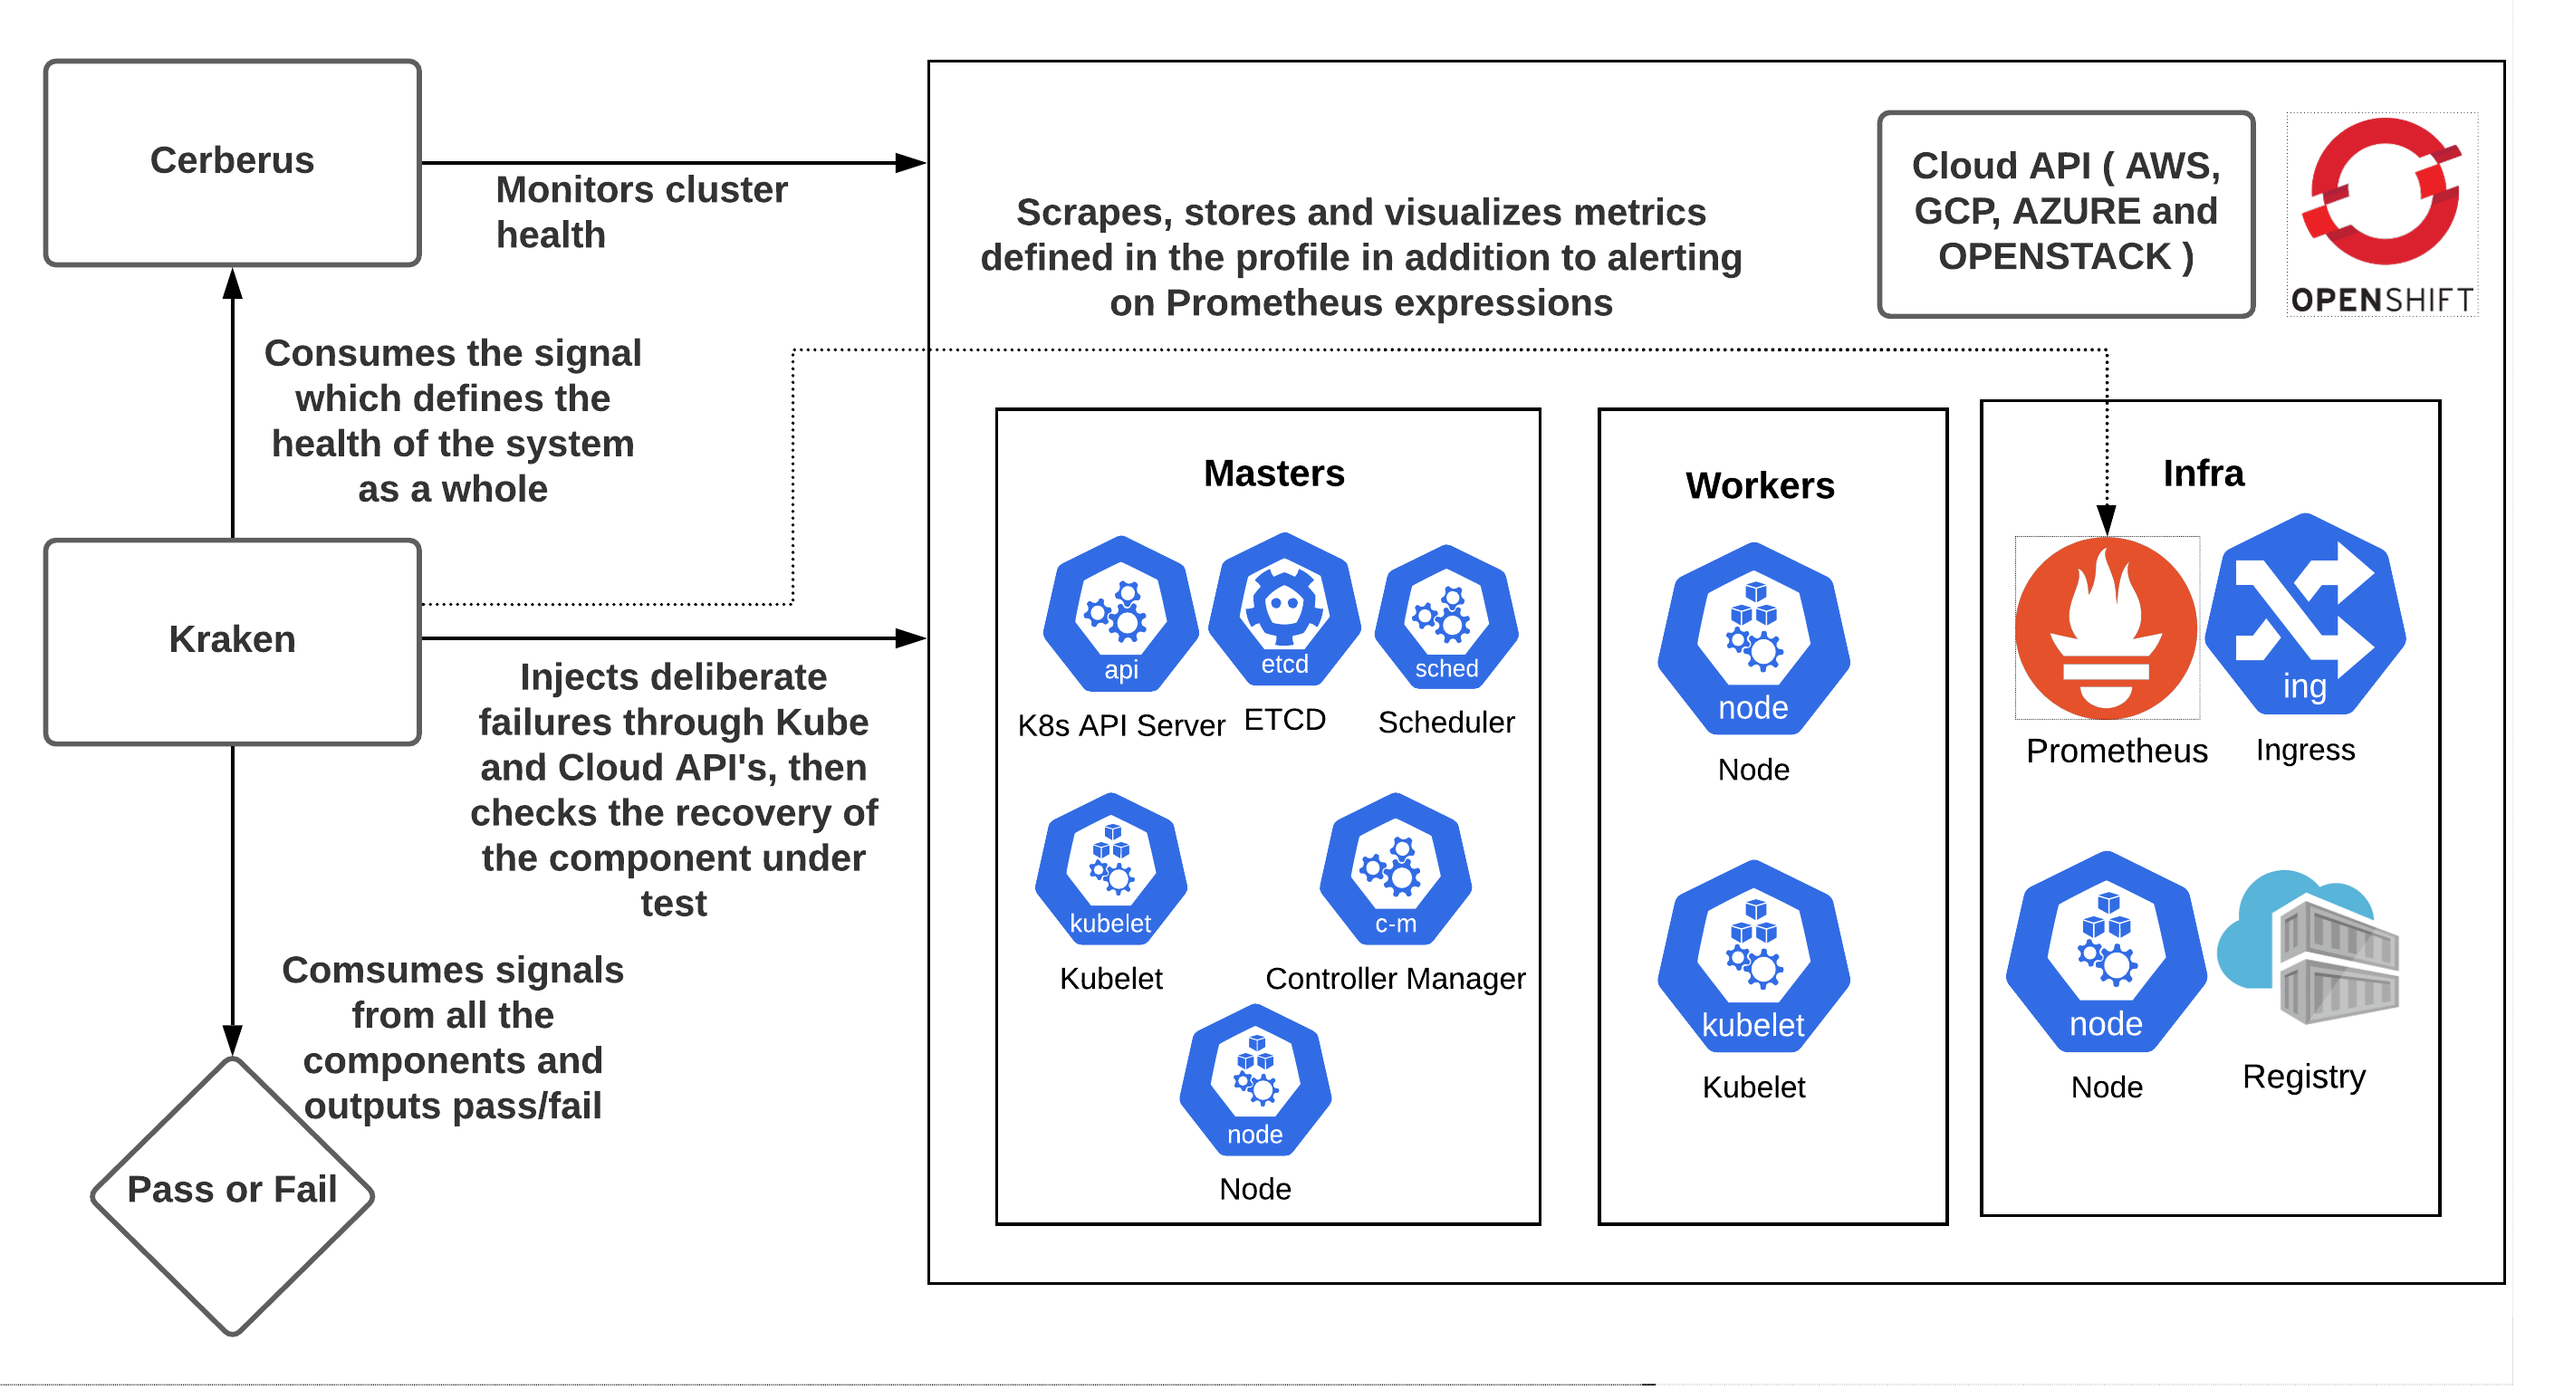
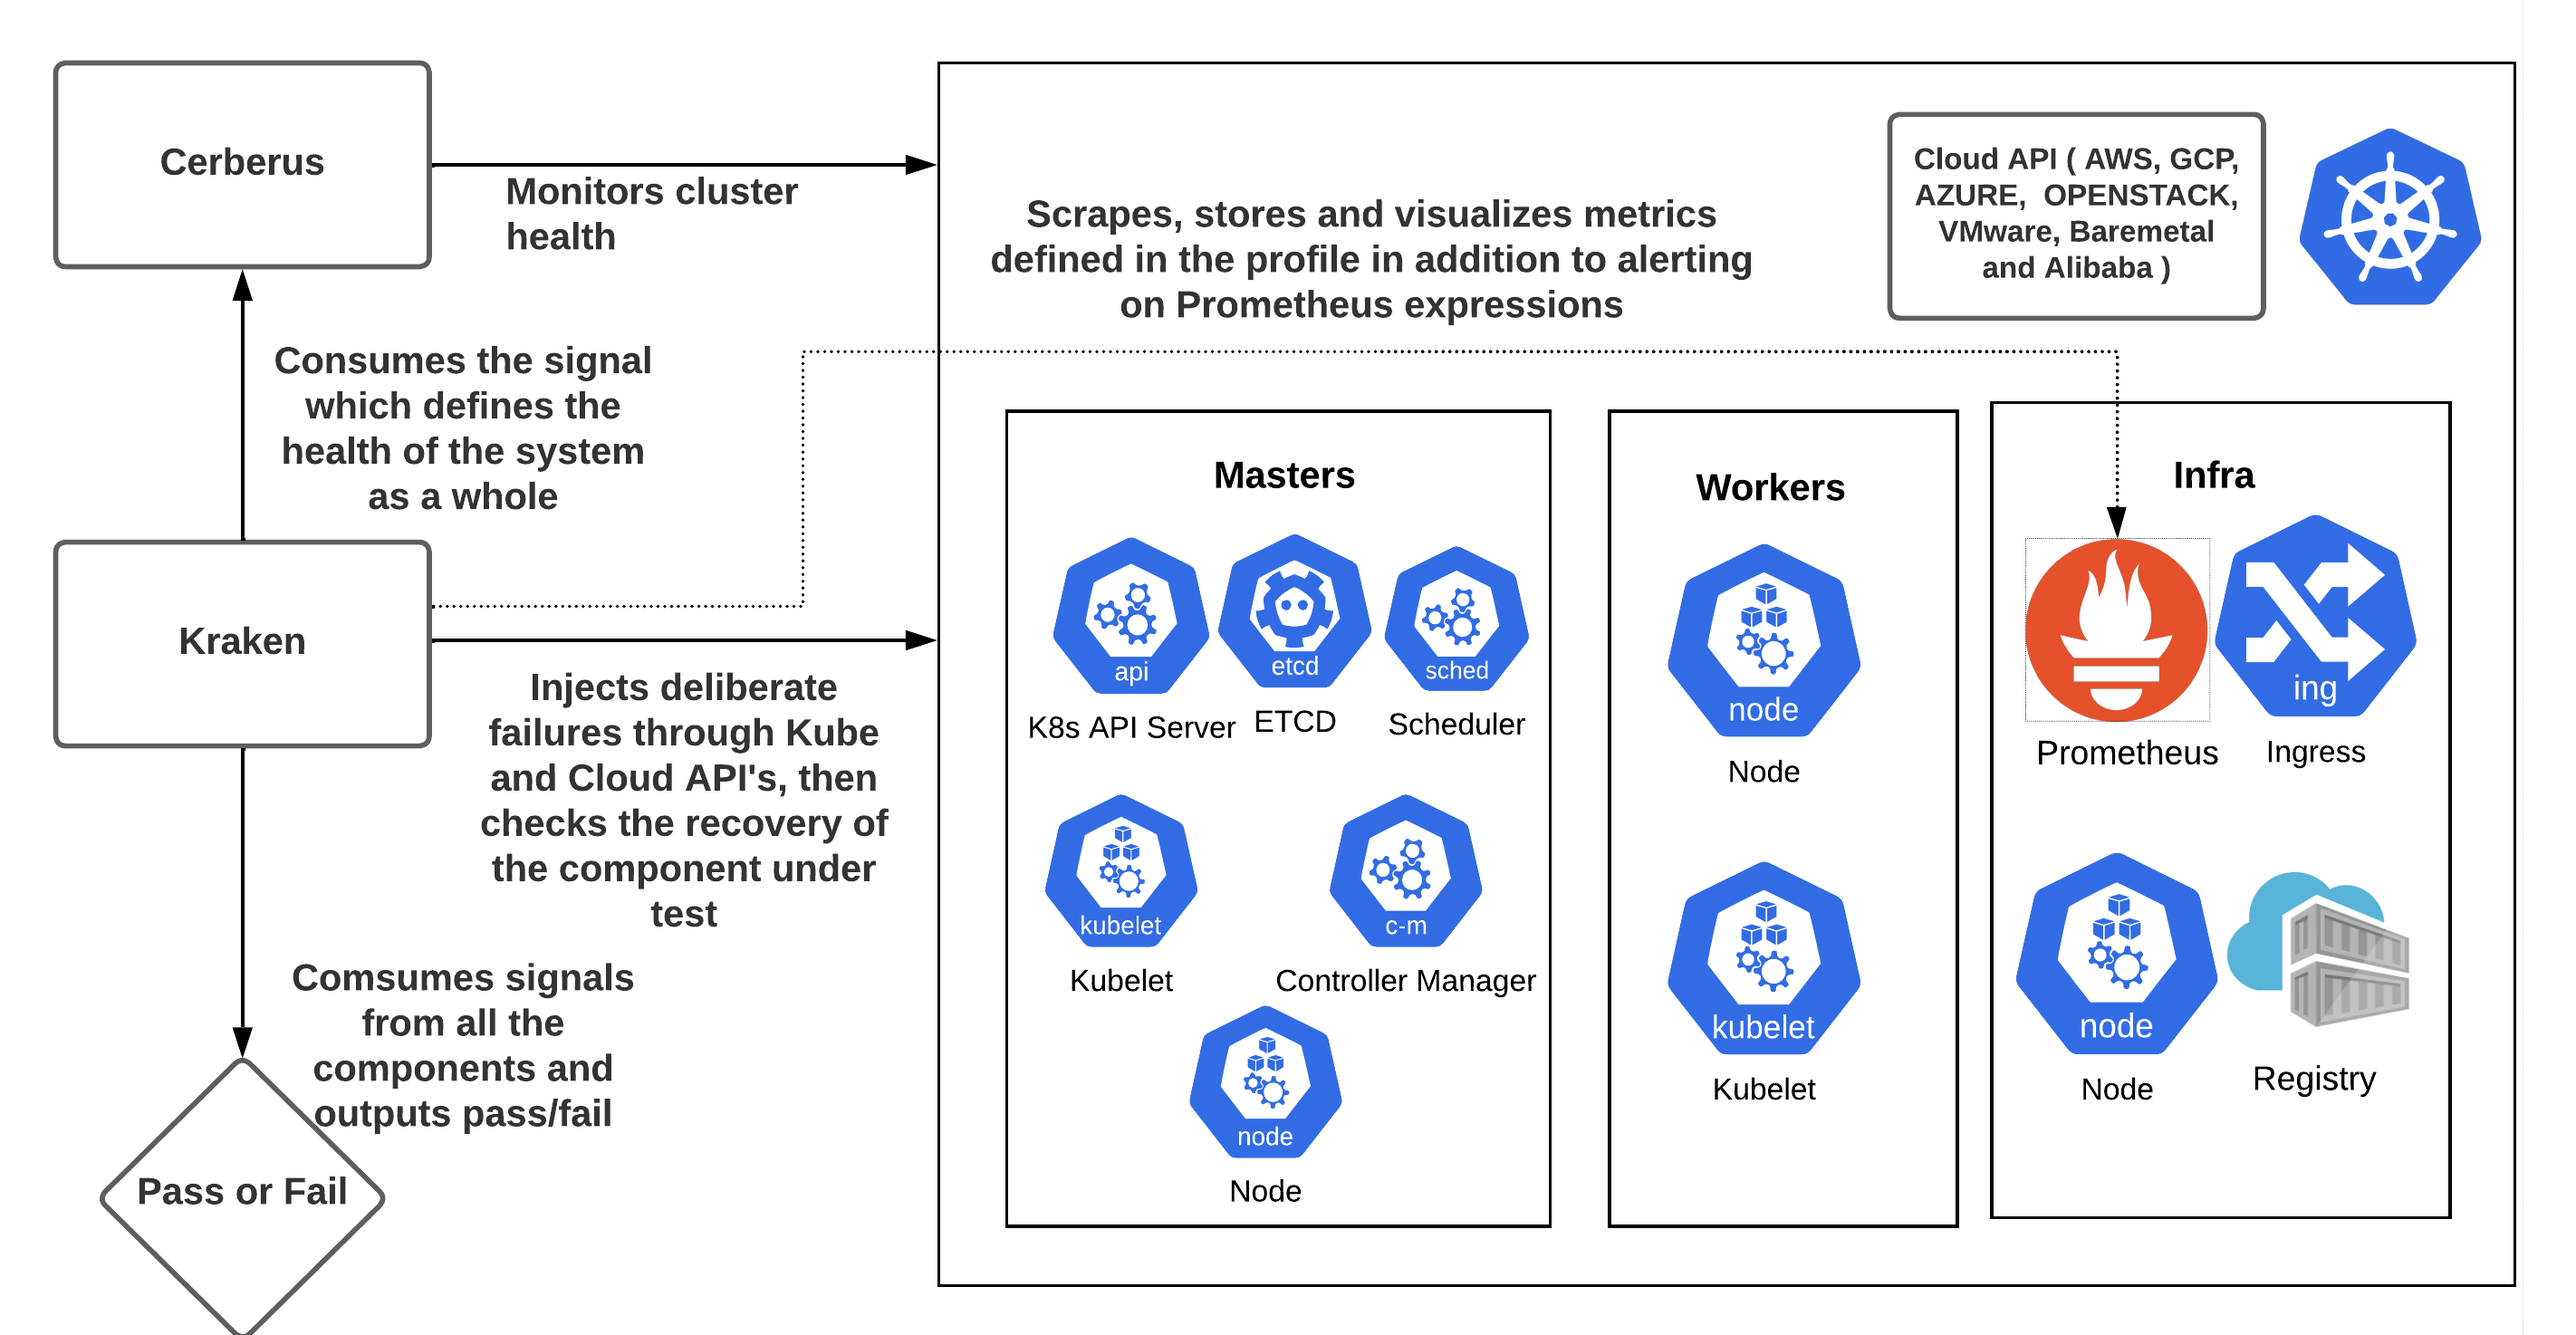
Rename repo name and update workflow
This commit also removes OpenShift references and updates source
in the dockerfile.

diff --git a/README.md b/README.md
@@ -1,11 +1,11 @@
-# KrknChaos aka Kraken
+# Krkn aka Kraken
 [![Docker Repository on Quay](https://quay.io/repository/redhat-chaos/krkn/status "Docker Repository on Quay")](https://quay.io/repository/redhat-chaos/krkn?tab=tags&tag=latest)
 ![Workflow-Status](https://github.com/redhat-chaos/krkn/actions/workflows/docker-image.yml/badge.svg)
 
 ![Krkn logo](media/logo.png)
 
-Chaos and resiliency testing tool for Kubernetes and OpenShift.
-Kraken injects deliberate failures into Kubernetes/OpenShift clusters to check if it is resilient to turbulent conditions.
+Chaos and resiliency testing tool for Kubernetes.
+Kraken injects deliberate failures into Kubernetes clusters to check if it is resilient to turbulent conditions.
 
 
 ### Workflow
@@ -18,13 +18,13 @@ Kraken injects deliberate failures into Kubernetes/OpenShift clusters to check i
 ### Chaos Testing Guide
 [Guide](docs/index.md) encapsulates:
 - Test methodology that needs to be embraced.
-- Best practices that an OpenShift cluster, platform and applications running on top of it should take into account for best user experience, performance, resilience and reliability.
+- Best practices that an Kubernetes cluster, platform and applications running on top of it should take into account for best user experience, performance, resilience and reliability.
 - Tooling.
 - Scenarios supported.
 - Test environment recommendations as to how and where to run chaos tests.
 - Chaos testing in practice.
 
-The guide is hosted at https://redhat-chaos.github.io/krknChoas.
+The guide is hosted at https://krkn-chaos.github.io/krkn.
 
 
 ### How to Get Started
@@ -57,29 +57,29 @@ This will manage the Cerberus and Elasticsearch containers on the host on which 
 Instructions on how to setup the config and the options supported can be found at [Config](docs/config.md).
 
 
-### Kubernetes/OpenShift chaos scenarios supported
+### Kubernetes chaos scenarios supported
 
-Scenario type               | Kubernetes    | OpenShift          
---------------------------- | ------------- |--------------------|  
-[Pod Scenarios](docs/pod_scenarios.md) | :heavy_check_mark: | :heavy_check_mark: |
-[Pod Network Scenarios](docs/pod_network_scenarios.md) | :x: | :heavy_check_mark: |
-[Container Scenarios](docs/container_scenarios.md) | :heavy_check_mark: | :heavy_check_mark: |
-[Node Scenarios](docs/node_scenarios.md) | :heavy_check_mark: | :heavy_check_mark: |
-[Time Scenarios](docs/time_scenarios.md) | :x: | :heavy_check_mark: |
-[Hog Scenarios: CPU, Memory](docs/arcaflow_scenarios.md) | :heavy_check_mark: | :heavy_check_mark: |
-[Cluster Shut Down Scenarios](docs/cluster_shut_down_scenarios.md) | :heavy_check_mark: | :heavy_check_mark: |
-[Service Disruption Scenarios](docs/service_disruption_scenarios.md.md) | :heavy_check_mark: | :heavy_check_mark: |
-[Zone Outage Scenarios](docs/zone_outage.md) | :heavy_check_mark: | :heavy_check_mark: |
-[Application_outages](docs/application_outages.md) | :heavy_check_mark: | :heavy_check_mark: |
-[PVC scenario](docs/pvc_scenario.md) | :heavy_check_mark: | :heavy_check_mark: |
-[Network_Chaos](docs/network_chaos.md) | :heavy_check_mark: | :heavy_check_mark: |
-[ManagedCluster Scenarios](docs/managedcluster_scenarios.md) | :heavy_check_mark: | :question:         |
+Scenario type               | Kubernetes    
+--------------------------- | ------------- | 
+[Pod Scenarios](docs/pod_scenarios.md) | :heavy_check_mark: |
+[Pod Network Scenarios](docs/pod_network_scenarios.md) | :x: |
+[Container Scenarios](docs/container_scenarios.md) | :heavy_check_mark: |
+[Node Scenarios](docs/node_scenarios.md) | :heavy_check_mark: |
+[Time Scenarios](docs/time_scenarios.md) | :x: |
+[Hog Scenarios: CPU, Memory](docs/arcaflow_scenarios.md) | :heavy_check_mark: |
+[Cluster Shut Down Scenarios](docs/cluster_shut_down_scenarios.md) | :heavy_check_mark: |
+[Service Disruption Scenarios](docs/service_disruption_scenarios.md.md) | :heavy_check_mark: |
+[Zone Outage Scenarios](docs/zone_outage.md) | :heavy_check_mark: |
+[Application_outages](docs/application_outages.md) | :heavy_check_mark: |
+[PVC scenario](docs/pvc_scenario.md) | :heavy_check_mark: |
+[Network_Chaos](docs/network_chaos.md) | :heavy_check_mark: |
+[ManagedCluster Scenarios](docs/managedcluster_scenarios.md) | :heavy_check_mark: |
 
 
 ### Kraken scenario pass/fail criteria and report
 It is important to make sure to check if the targeted component recovered from the chaos injection and also if the Kubernetes/OpenShift cluster is healthy as failures in one component can have an adverse impact on other components. Kraken does this by:
 - Having built in checks for pod and node based scenarios to ensure the expected number of replicas and nodes are up. It also supports running custom scripts with the checks.
-- Leveraging [Cerberus](https://github.com/openshift-scale/cerberus) to monitor the cluster under test and consuming the aggregated go/no-go signal to determine pass/fail post chaos. It is highly recommended to turn on the Cerberus health check feature available in Kraken. Instructions on installing and setting up Cerberus can be found [here](https://github.com/openshift-scale/cerberus#installation) or can be installed from Kraken using the [instructions](https://github.com/redhat-chaos/krkn#setting-up-infrastructure-dependencies). Once Cerberus is up and running, set cerberus_enabled to True and cerberus_url to the url where Cerberus publishes go/no-go signal in the Kraken config file. Cerberus can monitor [application routes](https://github.com/redhat-chaos/cerberus/blob/main/docs/config.md#watch-routes) during the chaos and fails the run if it encounters downtime as it is a potential downtime in a customers, or users environment as well. It is especially important during the control plane chaos scenarios including the API server, Etcd, Ingress etc. It can be enabled by setting `check_applicaton_routes: True` in the [Kraken config](https://github.com/redhat-chaos/krkn/blob/main/config/config.yaml) provided application routes are being monitored in the [cerberus config](https://github.com/redhat-chaos/krkn/blob/main/config/cerberus.yaml).
+- Leveraging [Cerberus](https://github.com/redhat-chaos/cerberus) to monitor the cluster under test and consuming the aggregated go/no-go signal to determine pass/fail post chaos. It is highly recommended to turn on the Cerberus health check feature available in Kraken. Instructions on installing and setting up Cerberus can be found [here](https://github.com/openshift-scale/cerberus#installation) or can be installed from Kraken using the [instructions](https://github.com/redhat-chaos/krkn#setting-up-infrastructure-dependencies). Once Cerberus is up and running, set cerberus_enabled to True and cerberus_url to the url where Cerberus publishes go/no-go signal in the Kraken config file. Cerberus can monitor [application routes](https://github.com/redhat-chaos/cerberus/blob/main/docs/config.md#watch-routes) during the chaos and fails the run if it encounters downtime as it is a potential downtime in a customers, or users environment as well. It is especially important during the control plane chaos scenarios including the API server, Etcd, Ingress etc. It can be enabled by setting `check_applicaton_routes: True` in the [Kraken config](https://github.com/redhat-chaos/krkn/blob/main/config/config.yaml) provided application routes are being monitored in the [cerberus config](https://github.com/redhat-chaos/krkn/blob/main/config/cerberus.yaml).
 - Leveraging built-in alert collection feature to fail the runs in case of critical alerts.
 
 ### Signaling
